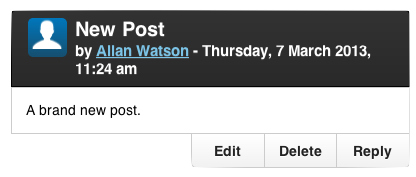
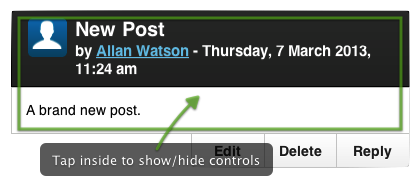
More Forum tuts

diff --git a/moodle/theme/mobilev1/javascript/mobilejs.js b/moodle/theme/mobilev1/javascript/mobilejs.js
@@ -11,11 +11,12 @@ $(document).bind("mobileinit", function(){
 /*disable the mouseover to improve menu scrolling performance */
  $(document).bind("vmouseover", function () { });
 
+
  
 /** 
  * Course Index
  */
-$('#course-page-index, #page-site-index, #page-my-index')
+$('#course-page-index, #page-site-index, #page-my-index, #page-course-index')
 	.live('pagebeforecreate',function(event, ui){
 
 		$('ul.section').attr("data-role", "listview").attr("data-inset", "true").attr('data-theme', 'a');
@@ -36,8 +37,11 @@ $('#course-page-index, #page-site-index, #page-my-index')
 	}).live('pageshow',function(event, ui){
 		
 		/* DOM Management remove all pages when returning to the course page */
-		$.mobile.urlHistory.clearForward();
-		alert( $.mobile.urlHistory.stack.length);
+		$('.ui-page:not(.ui-page.ui-page-active)').each(function(){
+			  	
+		     $(this).remove();
+			  	
+		   });
 	
 	
 	});
@@ -47,10 +51,10 @@ $('#course-page-index, #page-site-index, #page-my-index')
  * General
  */
  $('div').live('pageshow',function(event, ui){
- 
-if($.mobile.urlHistory.stack.length > 5){
-	
-}
+
+	//clear forward 
+	$.mobile.urlHistory.clearForward();
+
 
  }).live('pagebeforecreate',function(event, ui){
 	$('.ftoggler').attr('data-role', 'list-divider').addClass('ui-bar-a');
@@ -165,7 +169,7 @@ $('.course-view-topics, .course-view-weeks').live('pagebeforecreate',function(ev
 		$(this).find('.course-content li.section.main').not('[id="section-0"]').attr('data-role', 'collapsible').attr('data-collapsed', 'false').attr('data-theme', 'b').attr('data-content-theme','c');
 			
 		//assign listviews
-		$(this).find('ul.section').attr('data-role', 'listview');
+		$(this).find('ul.section').attr('data-role', 'listview').attr('data-shadow', 'false');
 		$(this).find('#section-0 ul.section ').attr('data-inset', 'true');
 			
 		
@@ -421,9 +425,9 @@ $('#page-mod-assign-view').live('pagebeforecreate',function(event, ui){
 
 $('#page-course-user').live('pagebeforecreate',function(event, ui){
 	$(this).find('th').attr('colspan', '1');
-	$(this).find$('td.oddd1').remove();
-	$(this).find$('table.user-grade').addClass('responsive-tab').removeClass('user-grade');
-	$(this).find$('table td a').attr('data-role', 'button').attr('data-mini', 'true');
+	$(this).find('td.oddd1').remove();
+	$(this).find('table.user-grade').addClass('responsive-tab').removeClass('user-grade');
+	$(this).find('table td a').attr('data-role', 'button').attr('data-mini', 'true');
 	
 });
 

diff --git a/moodle/theme/mobilev1/javascript/help.js b/moodle/theme/mobilev1/javascript/help.js
@@ -38,7 +38,7 @@ function check_index_tut(){
 		if (!$('#forum-tut-pop').length){
 					$('.ui-page-active').append('<div class="ui-popup-screen ui-overlay-a in" id="forum-tut-screen"></div>');
 					var url = $('#moodle-url').attr('url') 
-					$('body').append('<div id="forum-tut-pop" class="tut"><h1>To View Replies <br>Swipe or Tap</h1><div class="forum-tut-contents"><img src="' + url + '/theme/mobilev1/pix/reply.png"></div><h1>To View Post Controls</h1><img src="' + url + '/theme/mobilev1/pix/reply.png"><a id="forum-tut-close" onclick="close_forum_tut();" class="ui-btn ui-shadow ui-btn-corner-all ui-btn-block ui-btn-up-b"><span class="ui-btn-inner"><span class="ui-btn-text">Close</span></span></a></div>');
+					$('body').append('<div id="forum-tut-pop" class="tut"><h1>To View Replies <br>Swipe or Tap</h1><div class="forum-tut-contents"><img src="' + url + '/theme/mobilev1/pix/reply.png"></div><h1>To View Post Controls</h1><img src="' + url + '/theme/mobilev1/pix/forum-tut-controls.png"><h1>To View Topic Details</h1><img src="' + url + '/theme/mobilev1/pix/forum-tut-topic.png"><a id="forum-tut-close" onclick="close_forum_tut();" class="ui-btn ui-shadow ui-btn-corner-all ui-btn-block ui-btn-up-b"><span class="ui-btn-inner"><span class="ui-btn-text">Close</span></span></a></div>');
 				}
 				else{
 					$('.ui-page-active').append('<div class="ui-popup-screen ui-overlay-a in" id="forum-tut-screen"></div>');

diff --git a/moodle/theme/mobilev1/style/forums.css b/moodle/theme/mobilev1/style/forums.css
@@ -238,9 +238,12 @@
 /* Forum Tutorial*/
 
 #forum-tut-pop{
-	top: 1em;
+	top: 0;
 	left:0px;
 	width:100%;
+	height: 100%;
+	overflow: scroll;
+	-webkit-overflow-touch:scroll;
 	color: #fff;
 	text-shadow: 0 1px #000;
 	text-align: center;

diff --git a/moodle/theme/mobilev1/style/course.css b/moodle/theme/mobilev1/style/course.css
@@ -75,7 +75,6 @@ a.ui-btn-up-b .ui-btn-inner .ui-btn-text a{
 .course-info #blurb.ui-block-a .inner{
 	padding: 0.5em;
 	min-height: 5em;
-	border: 1px solid #cbcccb;
 }
 
 .course-info #blurb.ui-block-a .ui-btn{

diff --git a/moodle/theme/mobilev1/layout/standard.php b/moodle/theme/mobilev1/layout/standard.php
@@ -1,6 +1,5 @@
 <?php
 $hassidepre = $PAGE->blocks->region_has_content('side-pre', $OUTPUT);
-$hascenterpost = $PAGE->blocks->region_has_content('center-post', $OUTPUT);
 
 $pagetype = $PAGE->pagetype;
 
@@ -13,7 +12,7 @@ echo $OUTPUT->doctype(); ?>
 <meta name="viewport" content="width=device-width, initial-scale=1.0, maximum-scale=1.0, user-scalable=no, width=320.1" />
 
 
-+    <link rel="shortcut icon" href="<?php echo $OUTPUT->pix_url('favicon', 'theme')?>" />
+    <link rel="shortcut icon" href="<?php echo $OUTPUT->pix_url('favicon', 'theme')?>" />
 
 <link rel="apple-touch-icon-precomposed" href="<?php echo $OUTPUT->pix_url('touch-icon-iphone', 'theme')?>" />
 

diff --git a/moodle/theme/mobilev1/lang/en/theme_mobilev1.php b/moodle/theme/mobilev1/lang/en/theme_mobilev1.php
@@ -28,6 +28,4 @@ $string['region-side-post'] = 'Right';
 $string['region-side-pre'] = 'Left';
 $string['choosereadme'] = 'A mobile optimised theme';
 
-
-
 ?>
